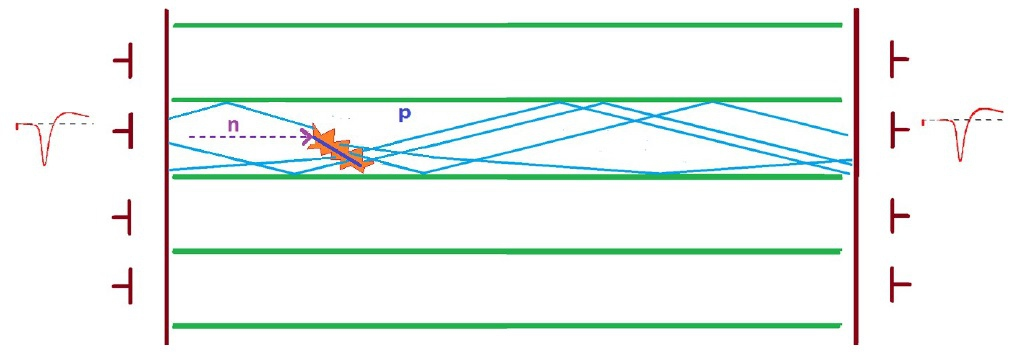
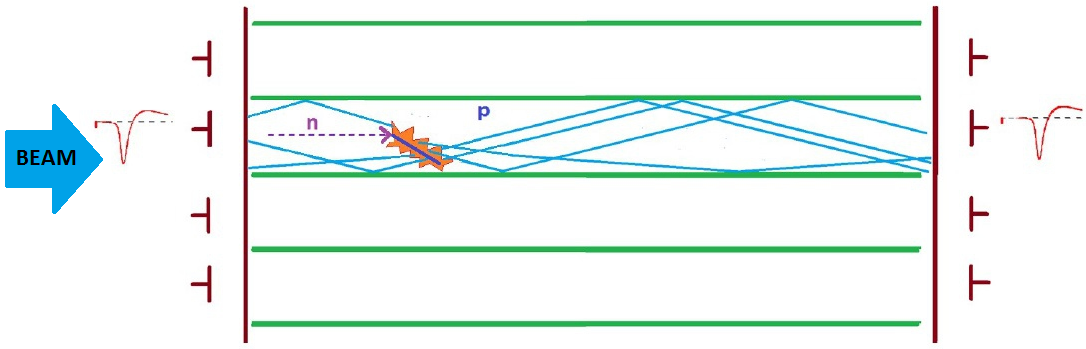
sim pics modified

Changed region(s): [[0.0, 0.0287, 0.9951, 0.9742]]

diff --git a/main.tex b/main.tex
@@ -120,35 +120,52 @@ This prototype was irradiated by collimated gamma beam with energies $E^{(1)}_{\
 \section{Simulations and data processing in EXPERTroot}
 All conducted measurements were simulated in \er. For all simulations in \er\, method of simulating detector response \cite{er} is used.
 
-The first step in simulation of the experiment was creating a virtual model of the setup described above.
-The \er\, options allow to create any shape of detector model and fill in with any material. Created model of the experimental setup is showed in Fig.\ref{ris:sim}. 
+The first step of this method is creating a virtual model of the setup described above.
+The \er\, options allow to create any shape of detector model and fill in with any material. Constructed virtual model of the experimental setup is showed in Fig.\ref{ris:sim}a). 
 
-\begin{figure}
-	\centering
-	\includegraphics[width=\linewidth]{sim.png}
-	\captionof{figure}{Simulations in  \er. Detector, collimator and PMT is depicted in blue, red and yellow colors respectively. The trajectory of the gamma particle is colored in black.}
-	\label{ris:sim}
+\begin{figure} 
+	\begin{minipage}[h]{\linewidth} 
+		\center{\includegraphics[width=1\linewidth]{sim.png}} a) \\ 
+	\end{minipage} 
+	\vfill 
+	\begin{minipage}[h]{0.47\linewidth} 
+		\center{\includegraphics[width=1\linewidth]{simSignal1.png}} b) \\
+	\end{minipage} 
+	\hfill 
+	\begin{minipage}[h]{0.47\linewidth} 
+		\center{\includegraphics[width=1\linewidth]{originalsignalform.png}} c) \\ 
+	\end{minipage} 
+	\caption{a) Simulations in \er. Detector, collimator and PMT is depicted in blue, red and yellow colors respectively. The trajectory of the gamma particle is colored in black. b) Typical MAPMT anode output signal form obtained by simulation. c) Typical signal form obtained in measurements.} 
+	\label{ris:sim} 
 \end{figure}
 
-The second step is transportation of the particles through the volume of the detector and obtaining of energy deposits of the particles at each step. This procedure is performing by well-known software GEANT4. And the last step of the simulation is the converting of energy deposits into detector signals.
-In order to obtain plausible data all the physical effects occurring during the experiment were taken into account in simulations.
+%\begin{figure}
+%	\centering
+%	\includegraphics[width=\linewidth]{sim.png}
+%	\captionof{figure}{Simulations in  \er. Detector, collimator and PMT is depicted in blue, red and yellow colors respectively. The trajectory of the gamma particle is colored in black.}
+%	\label{ris:sim}
+%\end{figure}
+
+\color{red}The second step is transportation of the particles through the volume of the detector and obtaining energy deposits of the particles at each step.\color{black} This procedure is performing by well-known software GEANT4. And the last step of the simulation is converting of the energy deposits into detector signals.
+In order to obtain plausible data all physical effects occurring in the experiment except electronics noise were taken into account in simulations.
 That's why such parameters as de-excitation scintillator time, quantum efficiency of the photocathode, the amplitude of the single electron signal, and others were calculated by analyzing of the experimental data or taken from used devices documentation.
 %For simulations the conducted measurements method of simulation of the detector response \cite{diplom} was used. 
 
-This method allowed to get the shape of the signals at the MAPMT anodes from all energy deposits of all NeuRad prototype fibers in the selected event. The MAPMT anode signal was calculated as a sum of the single photoelectron signals. 
+The method of simulating detector response allowed to get the shape of the signals at the MAPMT anodes from all energy deposits of all NeuRad prototype fibers in the selected event. The MAPMT anode signal was calculated as a sum of the single photoelectron signals. Typical signal form obtained in simulations and measurements is shown in Fig.\ref{ris:sim}b) and Fig.\ref{ris:sim}c) respectively.
 
+The \er\, was used not only for simulations of the measurements but also for processing of the obtained data.
 A lot of data processing methods were developed and implemented into \er, for example well-known methods of obtaining signal time Constant Fraction Discriminator (CFD) and Leading Edge Discriminator (LED) \cite{diplom}.
-The main advantage of using \er\, for data processing is a possibility to add any new processing algorithms the framework at any time. 
+The main advantage of using \er\, for data processing is a possibility to add any new processing algorithms to the framework at any time. 
 Implemented algorithms allowed to get such time and amplitude properties of the signal as rising time, Time-over-Threshold (ToT), anode charge and others. 
-
-Methods of the \er\, allowed to get data from simulations of the same format as in experiment. That's why the same data processing algorithms were used for simulation and experimental data.
+Methods of the \er\, allowed to get data from simulations of the same format as in experiment. That's why the same algorithms were used for simulation and experimental data.
 
 \color{red}
 As the gamma beam was collimated the time resolution was calculated as a Full Width at Half Maximum (FWHM) of the distribution of the difference of the signal times from the opposite sides of the selected fiber. 
 \color{black}
+
 \section{Results}
 
-The shapes of the signals obtained in the measurements and simulations were similar. 
+The shapes of the signals obtained in the measurements and simulations were similar, see Fig.\ref{ris:sim} b),c). 
 The most successful method for calculation the time resolution was LED with selecting events by ToT.
 
 At the Fig.\ref{ris:tausim} the distribution of the time difference of the signals from the opposite sides of one fiber is showed. Distribution obtained from experimental and simulated data colored in blue and red respectively.
